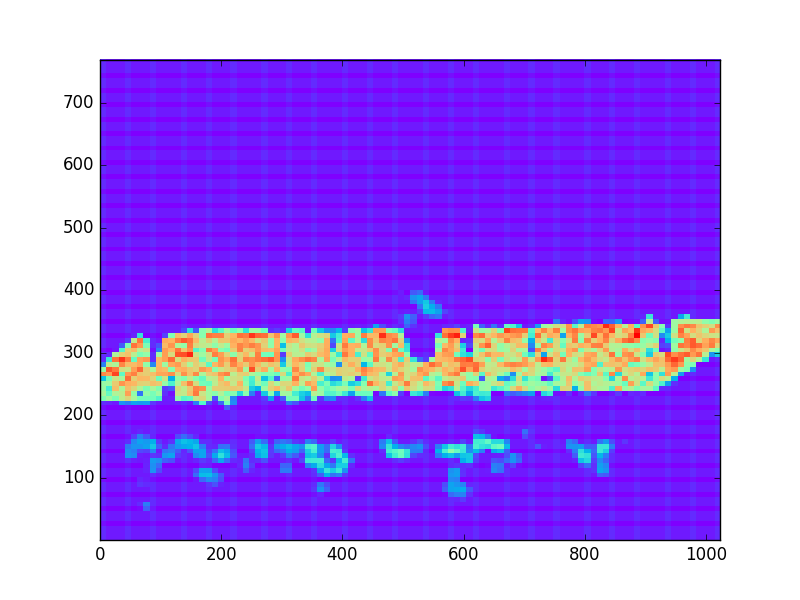
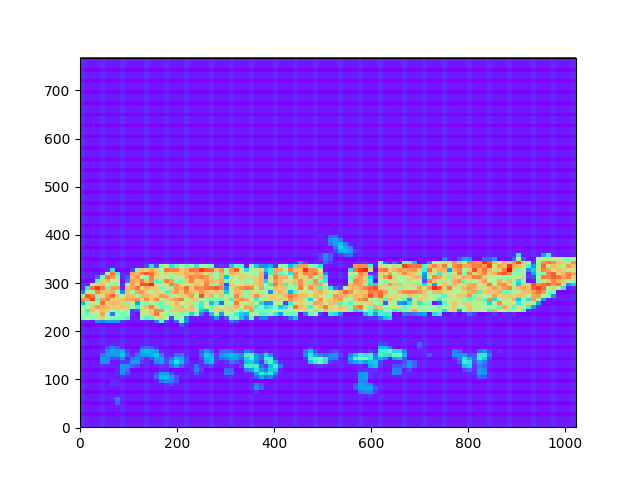
2017.10.10

Changed region(s): [[0.0625, 0.0938, 0.9062, 0.9375]]

diff --git a/gen_density.py b/gen_density.py
@@ -6,96 +6,78 @@ import cv2
 from matplotlib.colors import LogNorm
 import matplotlib.pyplot as plt
 
-PICTURE_NUM = 4
+MAX_NUM = 5
+MAT_PATH = './shanghaitech/part_A_final/train_data/ground_truth/'
+IMG_PATH = './shanghaitech/part_A_final/train_data/images/'
 
 def gaussian_filter_density(gt):
-    print(gt.shape)
     density = np.zeros(gt.shape, dtype=np.float32)
     gt_count = np.count_nonzero(gt)
-    print(gt_count)
     if gt_count == 0:
         return density
 
     pts = np.array(list(zip(np.nonzero(gt)[1], np.nonzero(gt)[0])))
     leafsize = 2048
-    # build kdtree
-    print('build kdtree...')
-    tree = scipy.spatial.KDTree(pts.copy(), leafsize=leafsize)
-    # query kdtree
-    print('query kdtree...')
-    distances, locations = tree.query(pts, k=4)
+    #print('build kdtree...')
+    tree = scipy.spatial.KDTree(pts.copy(), leafsize = leafsize)
+    #print('query kdtree...')
+    distances, locations = tree.query(pts, k = 4)
 
     print('generate density...')
     for i, pt in enumerate(pts):
-        pt2d = np.zeros(gt.shape, dtype=np.float32)
-        pt2d[pt[1],pt[0]] = 1.
+        pt2d = np.zeros(gt.shape, dtype = np.float32)
+        pt2d[pt[1], pt[0]] = 1.
         if gt_count > 1:
-            sigma = (distances[i][1]+distances[i][2]+distances[i][3])*0.1
-            print(sigma)
+            sigma = (distances[i][1] + distances[i][2] + distances[i][3]) * 0.1
         else:
-            sigma = np.average(np.array(gt.shape))/2./2. #case: 1 point
-        density += scipy.ndimage.filters.gaussian_filter(pt2d, sigma, mode='constant')
+            sigma = np.average(np.array(gt.shape)) / 2. / 2. #case: 1 point
+        density += scipy.ndimage.filters.gaussian_filter(pt2d, sigma, mode = 'constant')
     print('done.')
     return density
 
-matf = 'GT_IMG_' + str(PICTURE_NUM) + '.mat'
-data = sio.loadmat(matf)
-pixels = data['image_info'][0][0][0][0][0]
-print(pixels)
 
-img = cv2.imread('IMG_' + str(PICTURE_NUM) + '.jpg', 0)
-print(img.shape)
+for img_num in range(1, MAX_NUM + 1):
+    print('image num: ', img_num)
+    matf = MAT_PATH + 'GT_IMG_' + str(img_num) + '.mat'
+    data = sio.loadmat(matf)
+    pixels = data['image_info'][0][0][0][0][0]
 
-res = np.zeros(img.shape)
-print(res.shape)
+    img = cv2.imread(IMG_PATH + 'IMG_' + str(img_num) + '.jpg', 0)
+    print('image shape: ', img.shape)
 
-for p in pixels:
-    res[int(p[1])][int(p[0])] = 1
-    
-counter = 0
-for i in res:
-    for j in i:
-        if j == 1:
-            counter += 1
-            
-print(counter)
-print(len(pixels))
+    res = np.zeros(img.shape)
+    for p in pixels:
+        res[int(p[1])][int(p[0])] = 1
 
-den = np.array(gaussian_filter_density(res))
-print(den)
-print(den.shape)
+    den = np.array(gaussian_filter_density(res))
 
-print("truth: ", len(pixels))
-print("sum: ", np.sum(den))
+    truth = len(pixels)
+    den_sum = np.sum(den)
+    error_rate = abs(truth - den_sum) / truth
+    print('truth: ', truth)
+    print('density sum: ', den_sum)
+    print('error rate: ', error_rate)
+    print('###########################################')
 
-max = np.max(den)
-for i in range(len(den)):
-    for j in range(len(den[i])):
-        den[i][j] = int(den[i][j] * 255 / max)
+    ##绘图部分
+    max = float(np.max(den))
+    den = den * 255 / max
 
-print(den)
-print(np.max(den))
-
-x = []
-y = []
-
-for i in range(len(den)):
-    for j in range(len(den[i])):
-        for k in range(int(den[i][j])):
+    x = []
+    y = []
+    for i in range(len(den)):
+        for j in range(len(den[i])):
+            for k in range(int(den[i][j])):
+                x.append(j)
+                y.append(len(den) - i)
+    for i in range(len(den)):
+        for j in range(len(den[i])):
             x.append(j)
             y.append(len(den) - i)
-            
-print(len(x))
-print(len(y))
 
-for i in range(len(den)):
-    for j in range(len(den[i])):
-        x.append(j)
-        y.append(len(den) - i)
-
-counts,xbins,ybins,image = plt.hist2d(x,y,bins=100,norm=LogNorm(), cmap = plt.cm.rainbow)
-plt.savefig('density_' + str(PICTURE_NUM) + '.png')
-plt.show()
+    counts, xbins, ybins, image = plt.hist2d(x, y, bins = 100, norm = LogNorm(), cmap = plt.cm.rainbow)
+    plt.savefig('density_' + str(img_num) + '.png')
+    #plt.show()
 
 
 
